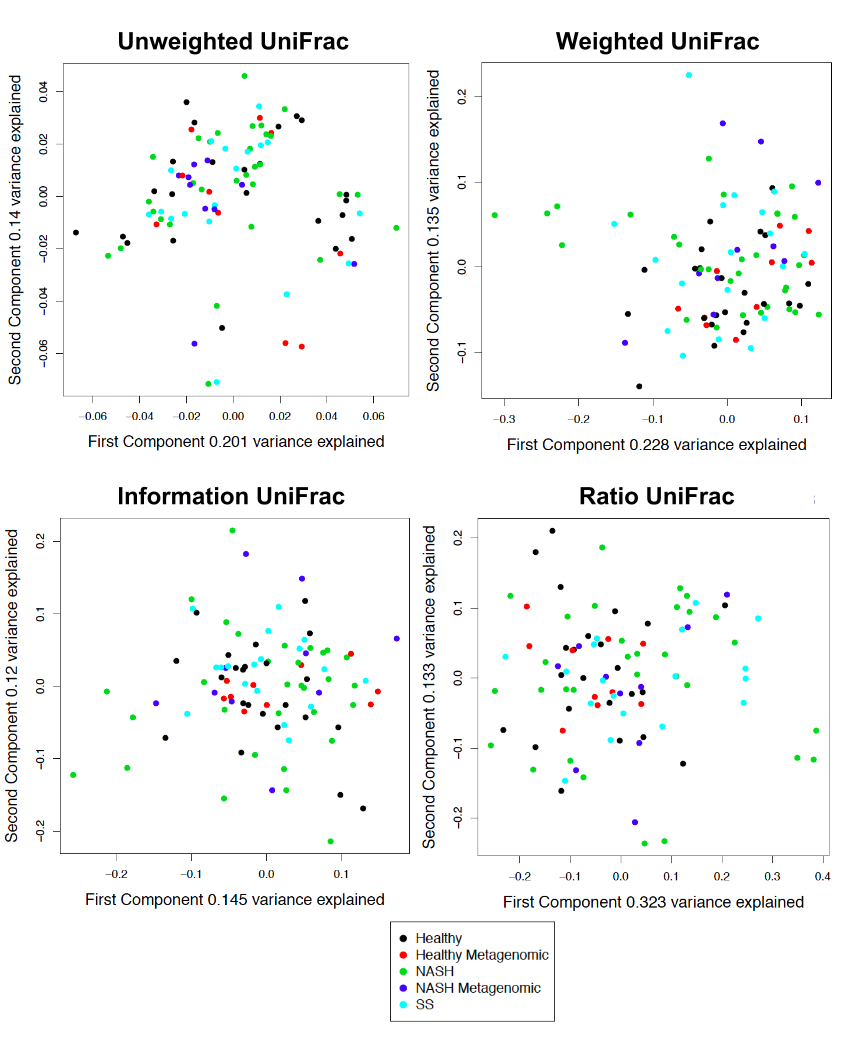
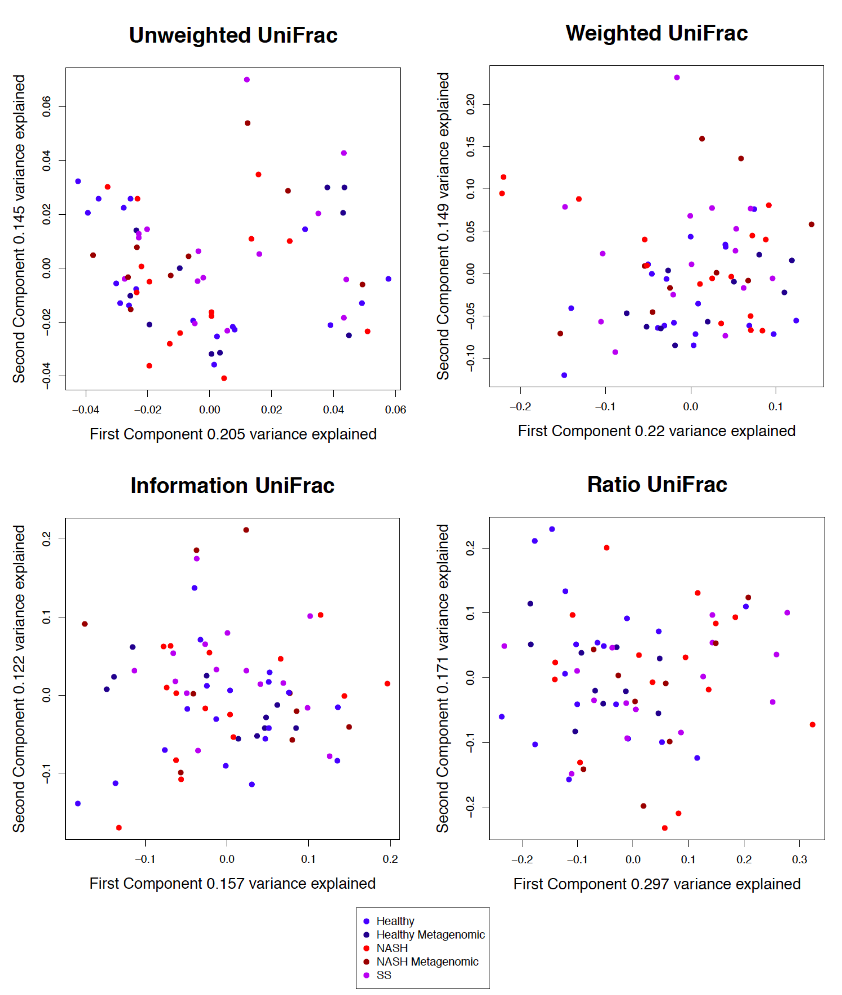
replaced nafld 16s pcoa with one tha thas baseline only

diff --git a/appendixa.tex b/appendixa.tex
@@ -25,4 +25,4 @@ Annotation was performed by querying the SEED database \cite{overbeek2005subsyst
 \subsection{Map seqeunced reads to reference library}
 Once the sequenced reads are available, they can be mapped to the reference library using Bowtie2 \cite{langmead2012fast}. Custom scripts were used to convert the mapping output to a table of counts per annotation per sample, which can then be analyzed with differential expression tools such as ALDEx2 \cite{fernandes2014unifying}.
 
-All of the scripts used to perform the above for the metagenomic non-alcoholic fatty liver disease experiment can be found at \url{https://github.com/ruthgrace/make_functional_mapping_library} in their unedited glory.
+All of the custom scripts used to perform the above for the metagenomic non-alcoholic fatty liver disease experiment can be found at \url{https://github.com/ruthgrace/make_functional_mapping_library}.
